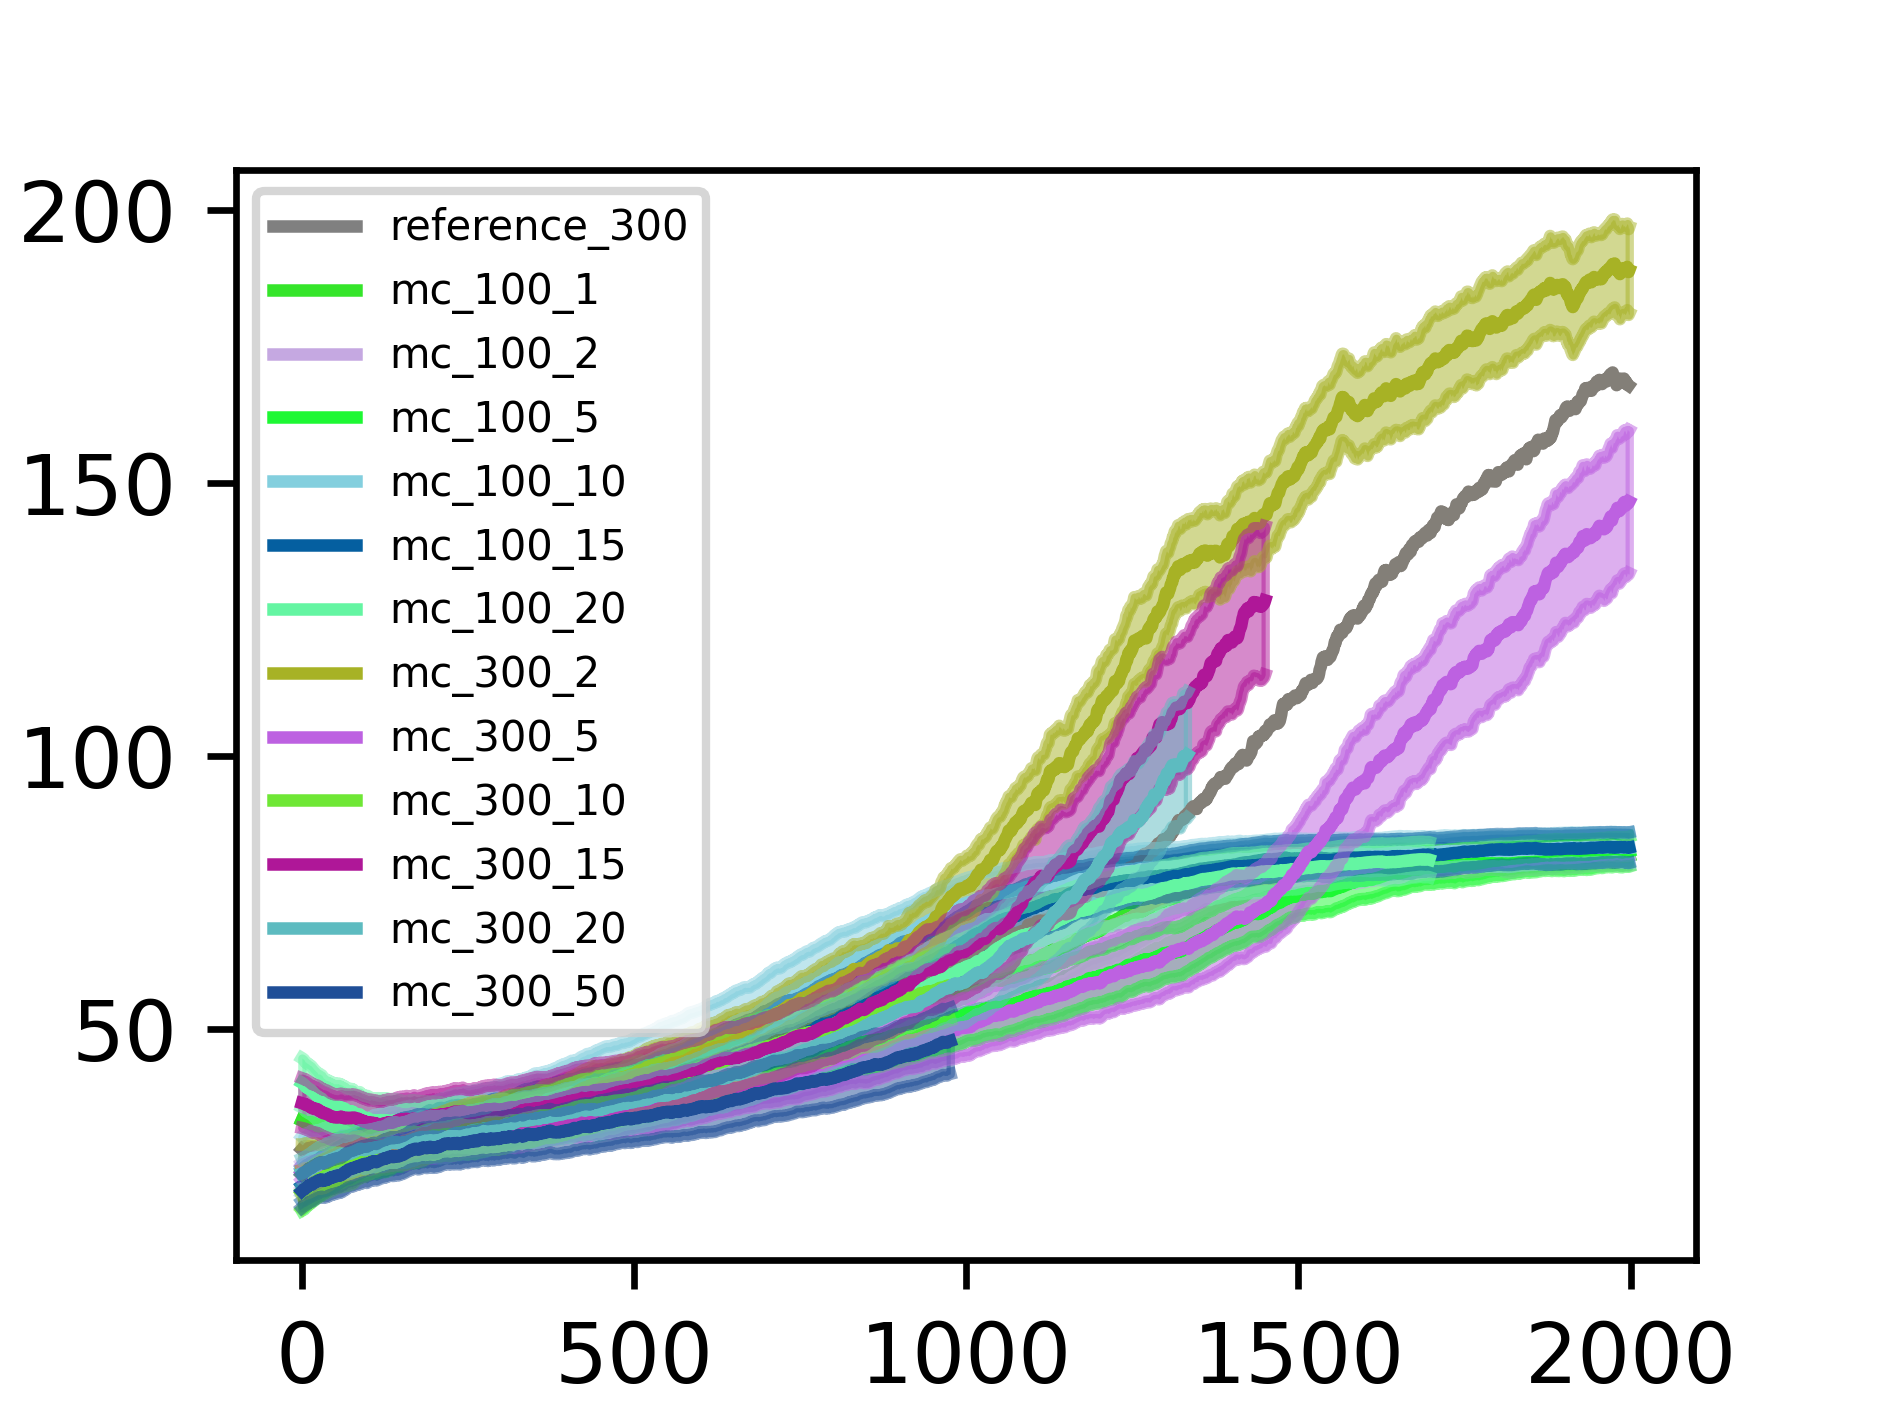
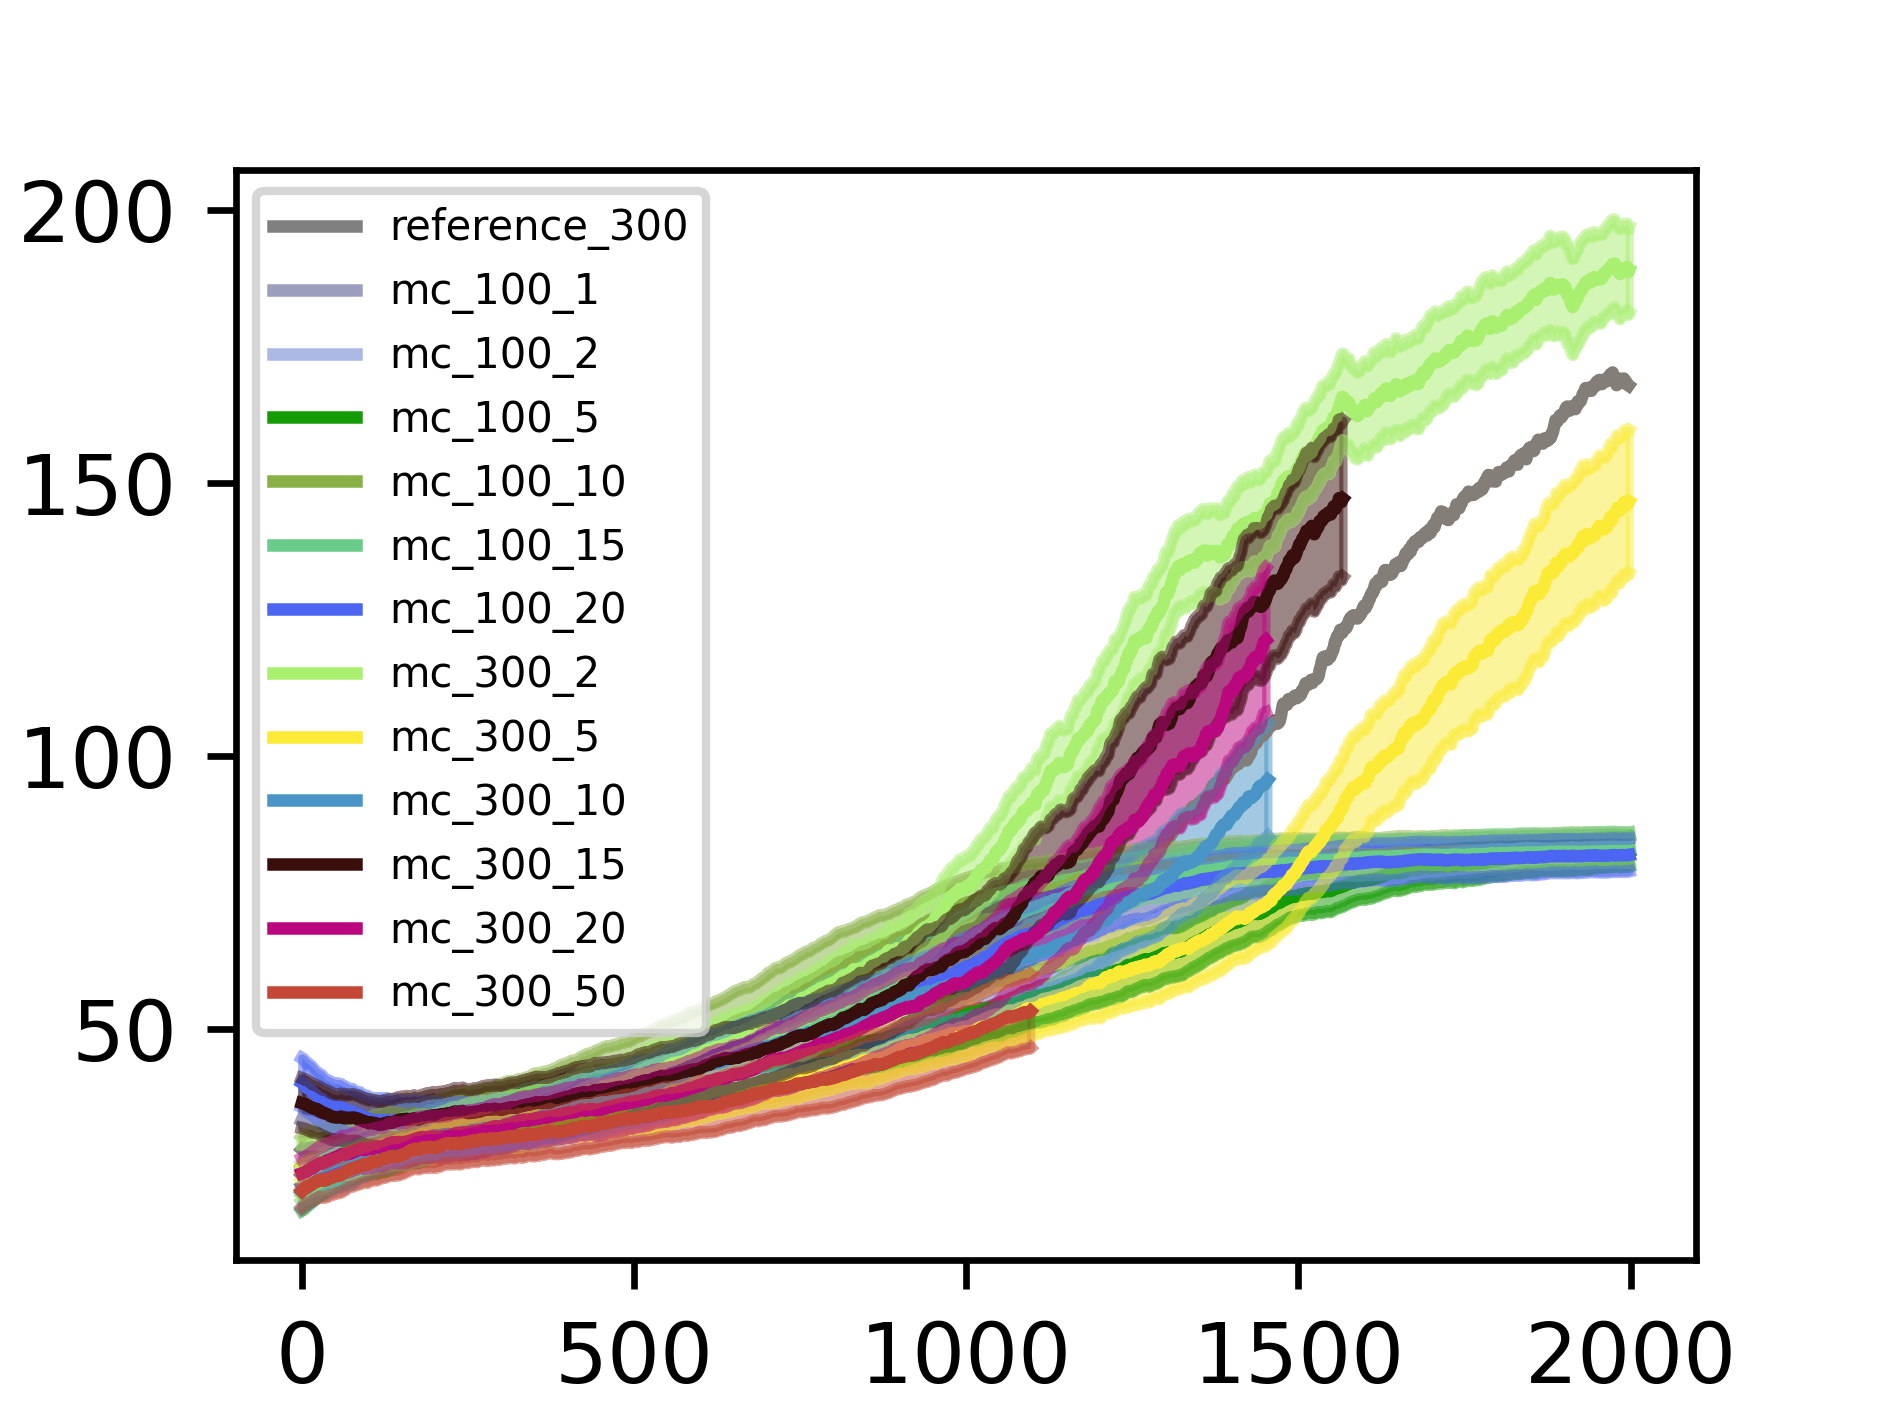
new

diff --git a/plot_test.py b/plot_test.py
@@ -84,76 +84,112 @@ def np_smooth(targets, weight=0.99):  # Weight between 0 and 1
     final = np.array(final)
     return final.T
 
+def run_mc_plot():
+    colors = {}
+    ms = [1,2,5,10,15,20,50,100]
+    for i in ms:
+        r = random.uniform(0, 1)
+        g = random.uniform(0, 1)
+        b = random.uniform(0, 1)
+        colors[i] = (r,g,b)
+    steps = 100
+    subfolder = 'new1_100'
+    gradient = 'sum'
+    
+    for name, ms_sep in zip(['1','2'],[ms[2:5],ms[5:8]]):
+        fig, ax = plt.subplots(figsize=(1.57 * 2, 1.18 * 2), dpi=600)
+        for e in [10]:
+            epic_mean, epic_std = read_rewards_multi(filename='./results/test/nosingle/multimodal/EPIC_CartPole-v0_vpg_s2000_n{}_every25_size32_c0.5_tau0.5_goal10.0_steps{}_mass5.0'.format(e,steps),
+                                                    samples=2000,
+                                                    episodes=e,
+                                                    runs=1)
+        
+        
+            x_vals = list(range(len(epic_mean)))
+            ax.plot(x_vals, epic_mean, color='red',label = "reference")
+            ax.plot(x_vals, epic_mean+epic_std,  alpha=0.1)
+            ax.plot(x_vals, epic_mean-epic_std,  alpha=0.1)
+            ax.fill_between(x_vals, y1=epic_mean-epic_std, y2=epic_mean+epic_std, alpha=0.1)
+        
+        for m in ms_sep:
+            fname = './results/montecarlo/{}/multimodal/EPIC_CartPole-v0_vpg_s2000_n10_every25_size32_c0.5_tau0.5_goal10.0_steps{}_mass5.0_mc{}'.format(subfolder,steps, m)
+            epic_mean_std = read_rewards_multi_mc(filename=fname,
+                                                samples=2000,
+                                                runs=1)
+            x_vals = list(range(epic_mean_std.shape[0]))
+            ax.plot(x_vals, epic_mean_std[:,0], color = colors[m], label = r"Monte Carolo, $M=${}".format(m))
+            ax.plot(x_vals, epic_mean_std[:,0]+epic_mean_std[:,1],color = colors[m], alpha=0.5)
+            ax.plot(x_vals, epic_mean_std[:,0]-epic_mean_std[:,1], color = colors[m],alpha=0.5)
+            ax.fill_between(x_vals, y1=epic_mean_std[:,0]-epic_mean_std[:,1], \
+                            y2=epic_mean_std[:,0]+epic_mean_std[:,1], color = colors[m],alpha=0.5)
+
+        ax.set_xticks([0, 500, 1000, 1500, 2000])
+        ax.legend(loc='upper left', labelspacing=0.5,fontsize=5) 
+        # plt.yticks([-15, -10, -5, 0])
+        # plt.tick_params(labelbottom=False, labelleft=False)
+        # plt.show()
+        plt.savefig('./results/montecarlo/{}/multimodal/step{}_epic25_episodes_nosingle_mc_compare_{}_{}'.format(subfolder, steps, name, gradient))
+
+
 
 if __name__ =="__main__":
+    subfolder = "test/nosingle"
+    steps = 100
     fig, ax = plt.subplots(figsize=(1.57 * 2, 1.18 * 2), dpi=600)
-    # for e in [1, 10]:
-    #     epic_mean, epic_std = read_rewards_multi(filename='./results/test/multimodal/EPIC_CartPole-v0_vpg_s2000_n{}_every25_size32_c0.5_tau0.5_goal10.0_steps300_mass5.0'.format(e),
-    #                                             samples=2000,
-    #                                             episodes=e,
-    #                                             runs=1)
-    
-    
-    #     x_vals = list(range(len(epic_mean)))
-    #     ax.plot(x_vals, epic_mean, label = e)
-    #     ax.plot(x_vals, epic_mean+epic_std,  alpha=0.1)
-    #     ax.plot(x_vals, epic_mean-epic_std,  alpha=0.1)
-    #     ax.fill_between(x_vals, y1=epic_mean-epic_std, y2=epic_mean+epic_std, alpha=0.1)
-
     for e in [10]:
-        epic_mean, epic_std = read_rewards_multi(filename='./results/test/nosingle/multimodal/EPIC_CartPole-v0_vpg_s2000_n{}_every25_size32_c0.5_tau0.5_goal10.0_steps300_mass5.0'.format(e),
+        epic_mean, epic_std = read_rewards_multi(filename='./results/test/nosingle/multimodal/EPIC_CartPole-v0_vpg_s2000_n{}_every25_size32_c0.5_tau0.5_goal10.0_steps{}_mass5.0'.format(e, steps),
                                                 samples=2000,
                                                 episodes=e,
                                                 runs=1)
     
     
         x_vals = list(range(len(epic_mean)))
-        ax.plot(x_vals, epic_mean, color='grey',label = "reference_300")
+        ax.plot(x_vals, epic_mean, label = e, color='orange')
         ax.plot(x_vals, epic_mean+epic_std,  alpha=0.1)
         ax.plot(x_vals, epic_mean-epic_std,  alpha=0.1)
         ax.fill_between(x_vals, y1=epic_mean-epic_std, y2=epic_mean+epic_std, alpha=0.1)
+    
+    epic_mean, epic_std = read_rewards_multi(filename='./results/multimodal/EPIC_CartPole-v0_vpg_s2000_n10_every25_size32_c0.5_tau0.5_goal0.5_steps{}_mass5.0'.format(steps),
+                                                samples=2000,
+                                                episodes = 10,
+                                                runs=1)
+    
+    
+    x_vals = list(range(len(epic_mean)))
+    ax.plot(x_vals, epic_mean, label = 'add single')
+    ax.plot(x_vals, epic_mean+epic_std,  alpha=0.1)
+    ax.plot(x_vals, epic_mean-epic_std,  alpha=0.1)
+    ax.fill_between(x_vals, y1=epic_mean-epic_std, y2=epic_mean+epic_std, alpha=0.1)
+    
 
+    maml_mean, maml_std = read_rewards_multi(filename='./results_maml/multimodal/maml_CartPole-v0_vpg_s2000_n10_every50_size32_goal0.5_steps{}_mass5.0'.format(steps),
+                                             samples=2000,
+                                             episodes=10,
+                                             runs=1)
+    
+    plt.plot(x_vals, maml_mean, color="#2980B9", label='maml')
+    plt.plot(x_vals, maml_mean+maml_std, color="#2980B9", alpha=0.1)
+    plt.plot(x_vals, maml_mean-maml_std, color="#2980B9", alpha=0.1)
+    plt.fill_between(x_vals, y1=maml_mean-maml_std, y2=maml_mean+maml_std, alpha=0.1, color="#2980B9")
+    
     colors = {}
-    ms = [1,2,5,10,15,20]
+    ms = [1,2,5,10,15,20,50,100]
     for i in ms:
         r = random.uniform(0, 1)
         g = random.uniform(0, 1)
         b = random.uniform(0, 1)
         colors[i] = (r,g,b)
-    
-    for m in ms:
-        fname = './results/montecarlo/new/multimodal/EPIC_CartPole-v0_vpg_s2000_n10_every25_size32_c0.5_tau0.5_goal10.0_steps100_mass5.0_mc{}'.format(m)
-        epic_mean_std = read_rewards_multi_mc(filename=fname,
-                                             samples=2000,
-                                             runs=1)
-    
-    
-        x_vals = list(range(epic_mean_std.shape[0]))
-        ax.plot(x_vals, epic_mean_std[:,0], color = colors[m], label = "mc_100_{}".format(m))
-        ax.plot(x_vals, epic_mean_std[:,0]+epic_mean_std[:,1],color = colors[m], alpha=0.5)
-        ax.plot(x_vals, epic_mean_std[:,0]-epic_mean_std[:,1], color = colors[m],alpha=0.5)
-        ax.fill_between(x_vals, y1=epic_mean_std[:,0]-epic_mean_std[:,1], \
-                        y2=epic_mean_std[:,0]+epic_mean_std[:,1], color = colors[m],alpha=0.5)
+    steps = 100
+    subfolder = 'montecarlo/new'
+    gradient = 'sum'
 
-    
-    
-    colors = {}
-    ms = [2,5,10,15,20,50]
-    for i in ms:
-        r = random.uniform(0, 1)
-        g = random.uniform(0, 1)
-        b = random.uniform(0, 1)
-        colors[i] = (r,g,b)
-    
-    for m in ms:
-        fname = './results/montecarlo/new2/multimodal/EPIC_CartPole-v0_vpg_s2000_n10_every25_size32_c0.5_tau0.5_goal10.0_steps300_mass5.0_mc{}'.format(m)
+    for m in [5,10,15,20,50]:
+        fname = './results/{}/multimodal/EPIC_CartPole-v0_vpg_s2000_n10_every25_size32_c0.5_tau0.5_goal10.0_steps{}_mass5.0_mc{}'.format(subfolder,steps, m)
         epic_mean_std = read_rewards_multi_mc(filename=fname,
-                                             samples=2000,
-                                             runs=1)
-    
-    
+                                            samples=2000,
+                                            runs=1)
         x_vals = list(range(epic_mean_std.shape[0]))
-        ax.plot(x_vals, epic_mean_std[:,0], color = colors[m], label = "mc_300_{}".format(m))
+        ax.plot(x_vals, epic_mean_std[:,0], color = colors[m], label = r"Monte Carolo, $M=${}".format(m))
         ax.plot(x_vals, epic_mean_std[:,0]+epic_mean_std[:,1],color = colors[m], alpha=0.5)
         ax.plot(x_vals, epic_mean_std[:,0]-epic_mean_std[:,1], color = colors[m],alpha=0.5)
         ax.fill_between(x_vals, y1=epic_mean_std[:,0]-epic_mean_std[:,1], \
@@ -164,4 +200,4 @@ if __name__ =="__main__":
     # plt.yticks([-15, -10, -5, 0])
     # plt.tick_params(labelbottom=False, labelleft=False)
     # plt.show()
-    plt.savefig('./results/montecarlo/new2/multimodal/step300_epic25_episodes_nosingle_mc_compare')
+    plt.savefig('./results/{}/multimodal/step{}_epic25_episodes_nosingle_single_mc_compare'.format(subfolder, steps))

diff --git a/epic.py b/epic.py
@@ -40,9 +40,9 @@ parser.add_argument('--env', type=str, default="CartPole-v0",
 parser.add_argument('--samples', type=int, default=2000) # need to tune
 parser.add_argument('--episodes', type=int, default=1)
 parser.add_argument('--steps', type=int, default=100)
-parser.add_argument('--goal', type=float, default=0.5) 
+parser.add_argument('--goal', type=float, default=10.0) 
 parser.add_argument('--seed', default=1, type=int)
-parser.add_argument('--mass', type=float, default=1.0) 
+parser.add_argument('--mass', type=float, default=5) 
 parser.add_argument('--action_std', type=float, default=0.5)
 # meta settings
 parser.add_argument('--meta', dest='meta', action='store_true')
@@ -66,7 +66,7 @@ parser.add_argument('--lam_decay', type=float, default=0.95)
 
 # file settings
 parser.add_argument('--logdir', type=str, default="logs/")
-parser.add_argument('--resdir', type=str, default="results/")
+parser.add_argument('--resdir', type=str, default="results/test/single/")
 parser.add_argument('--moddir', type=str, default="models/")
 parser.add_argument('--loadfile', type=str, default="")
 
@@ -291,26 +291,26 @@ if __name__ == '__main__':
 
         #use single task policy to collect some trajectories
         start_episode = 0
-        # for episode in range(start_episode, max_episodes):
-        #     state = env.reset()
-        #     rewards = []
-        #     for steps in range(max_steps):
-        #         state_tensor, action_tensor, log_prob_tensor = actor_policy.act_policy_m(state)
-        #         if isinstance(env.action_space, Discrete):
-        #             action = action_tensor.item()
-        #         else:
-        #             action = action_tensor.cpu().data.numpy().flatten()
-        #         new_state, reward, done, _ = env.step(action)
-        #         rewards.append(reward)
-        #         memory.add(state_tensor, action_tensor, log_prob_tensor, reward, done)
-        #         state = new_state
-        #         if done or steps == max_steps-1:
-        #             meta_rew_file.write("sample: {}, episode: {}, total reward: {}\n".format(
-        #                 sample, episode, np.round(np.sum(rewards), decimals = 3)))
-        #             break
-        # #update single task policy using the trajectory
-        # actor_policy.update_policy_m(memory)
-        # memory.clear_memory()
+        for episode in range(start_episode, max_episodes):
+            state = env.reset()
+            rewards = []
+            for steps in range(max_steps):
+                state_tensor, action_tensor, log_prob_tensor = actor_policy.act_policy_m(state)
+                if isinstance(env.action_space, Discrete):
+                    action = action_tensor.item()
+                else:
+                    action = action_tensor.cpu().data.numpy().flatten()
+                new_state, reward, done, _ = env.step(action)
+                rewards.append(reward)
+                memory.add(state_tensor, action_tensor, log_prob_tensor, reward, done)
+                state = new_state
+                if done or steps == max_steps-1:
+                    # meta_rew_file.write("sample: {}, episode: {}, total reward: {}\n".format(
+                    #     sample, episode, np.round(np.sum(rewards), decimals = 3)))
+                    break
+        #update single task policy using the trajectory
+        actor_policy.update_policy_m(memory)
+        memory.clear_memory()
         #use updated single task policy to collect some trajectories
         for episode in range(start_episode, meta_episodes):
             state = env.reset()

diff --git a/plot_mc.py b/plot_mc.py
@@ -42,9 +42,6 @@ def read_rewards_multi(filename, samples, episodes, runs):
     rewards = np.array(rewards)
     return np.mean(rewards, axis=0), np.std(rewards, axis=0)
 
-
-
-
 if __name__ =="__main__":
     fig, ax = plt.subplots(figsize=(1.57 * 2, 1.18 * 2), dpi=600)
     # fig = plt.figure(figsize=(1.57 * 2, 1.18 * 2), dpi=600)
